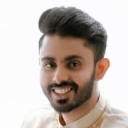
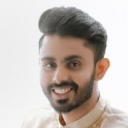
added GSTIN in footer

diff --git a/components/ui/footer.tsx b/components/ui/footer.tsx
@@ -22,6 +22,9 @@ export default function Footer({ border = false }: { border?: boolean }) {
               &copy; Nexotech.cc - All rights reserved.
             </div>
             <div className="text-sm text-gray-600">
+              Nexotech Solutions - GSTIN: 32AAXFN3096L1ZK
+            </div>
+            <div className="text-sm text-gray-600">
               49/190B, Tharath building, Kalappura PO, Arattuvazhy ward,
               Alappuzha - 688007
             </div>

diff --git a/components/hero-home.tsx b/components/hero-home.tsx
@@ -1,6 +1,6 @@
 import Image from "next/image";
 import PageIllustration from "@/components/page-illustration";
-import Avatar01 from "@/public/images/Sreekesh.png";
+import Avatar01 from "@/public/images/Sreekesh.jpg";
 import Avatar02 from "@/public/images/Neeraja.png";
 import Avatar03 from "@/public/images/Anil.png";
 import Avatar04 from "@/public/images/Ashish.png";
